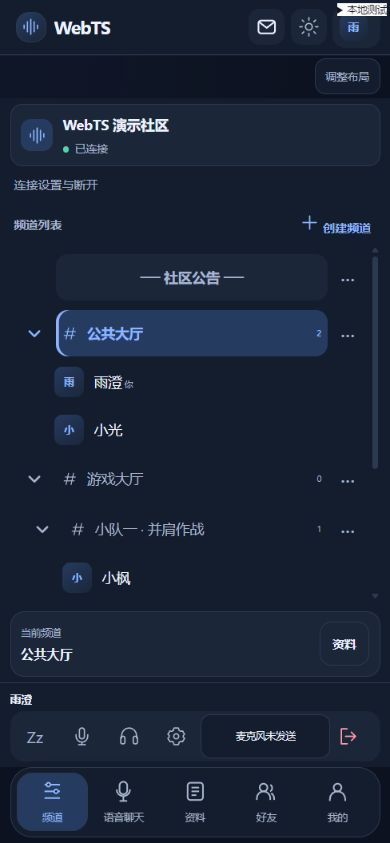
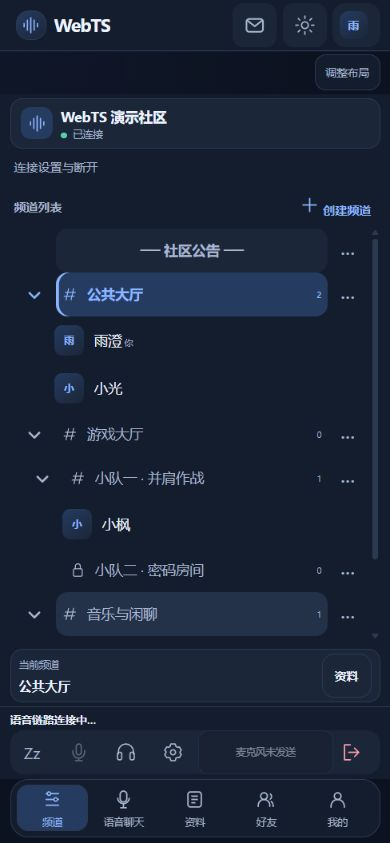
Improve compact mobile layout and device detection

diff --git a/web/src/interface.css b/web/src/interface.css
@@ -256,15 +256,16 @@ dialog::backdrop {background:#061020a3; backdrop-filter:blur(5px);}
 .context-menu button {border-radius:10px; min-height:38px;}
 
 /* Touch-first devices use pages; desktop windows retain their columns. */
-.app[data-layout=mobile] {height:var(--viewport-height,100dvh); padding-bottom:calc(76px + env(safe-area-inset-bottom));}
-.app[data-layout=mobile]:has(.workspace-shell) {padding-bottom:calc(76px + env(safe-area-inset-bottom));}
+.app[data-layout=mobile] {height:var(--viewport-height,100dvh); padding-bottom:calc(64px + env(safe-area-inset-bottom));}
+.app[data-layout=mobile]:has(.workspace-shell) {padding-bottom:calc(64px + env(safe-area-inset-bottom));}
 .app[data-layout=mobile].public-app {height:auto; padding-bottom:0;}
-.app[data-layout=mobile]>.topbar {height:auto; min-height:54px; padding:6px 10px; gap:6px;}
-.app[data-layout=mobile]:has(.workspace-shell)>.topbar {height:auto; min-height:54px; padding:6px 10px;}
+.app[data-layout=mobile]>.topbar {height:auto; min-height:50px; padding:2px 10px; gap:6px;}
+.app[data-layout=mobile]:has(.workspace-shell)>.topbar {height:auto; min-height:50px; padding:2px 10px;}
 .app[data-layout=mobile] .brand strong {font-size:19px; max-width:160px;}
 .app[data-layout=mobile] .brand-note {display:none;}
 .app[data-layout=mobile] .top-actions {gap:6px;}
-.app[data-layout=mobile] .topbar .icon-button {width:36px; height:36px; min-height:36px; border-radius:11px;}
+.app[data-layout=mobile] .topbar .icon-button {width:44px; height:44px; min-height:44px; border-radius:11px;}
+.app[data-layout=mobile] .topbar .account-button {min-height:44px;}
 .app[data-layout=mobile] .mobile-page-title {display:none;}
 .app[data-layout=mobile] .mobile-page-title small {font-size:9px; letter-spacing:1.3px; margin-bottom:4px;}
 .app[data-layout=mobile] .mobile-page-title strong {font-size:19px;}
@@ -277,17 +278,18 @@ dialog::backdrop {background:#061020a3; backdrop-filter:blur(5px);}
 .app[data-layout=mobile] .workspace-viewport>.workspace {display:flex; min-width:0!important; grid-template-columns:none!important; width:100%;}
 .app[data-layout=mobile] .workspace-pane {display:none; border:0;}
 .app[data-layout=mobile] .mobile-channels .pane-channels,.app[data-layout=mobile] .mobile-chat .pane-chat,.app[data-layout=mobile] .mobile-members .pane-members {display:flex; animation:panel-reveal .24s var(--ease);}
-.app[data-layout=mobile] .workspace-pane>.sidebar {padding:6px 10px; border:0;}
-.app[data-layout=mobile] .channels-panel .server-card {padding:8px 10px; border-radius:12px; margin-bottom:2px; gap:10px;}
+.app[data-layout=mobile] .workspace-pane>.sidebar {padding:4px 10px; border:0;}
+.app[data-layout=mobile] .channels-panel .server-card {padding:6px 10px; min-height:48px; border-radius:12px; margin-bottom:2px; gap:8px;}
 .app[data-layout=mobile] .channels-panel .server-mark {width:32px; height:32px; border-radius:10px;}
 .app[data-layout=mobile] .channels-panel .server-card strong {font-size:14px;}
+.app[data-layout=mobile] .channels-panel .server-card p {margin-top:0; font-size:10px; line-height:1.4;}
 .app[data-layout=mobile] .channels-panel .server-card small {display:none;}
 .app[data-layout=mobile] .channels-panel>.section-label {padding:0 4px; margin:2px 0; min-height:36px;}
 .app[data-layout=mobile] .connection-selectors>summary {padding:8px 4px; min-height:36px;}
 .app[data-layout=mobile] .channels-panel>.connect-area {display:none;}
 .app[data-layout=mobile] .channels-panel:has(.connection-selectors[open])>.connect-area {display:flex;}
 .app[data-layout=mobile] .channels-panel>.channel-list {border:0; border-radius:0; padding:2px; background:transparent; margin-bottom:6px; scrollbar-gutter:auto;}
-.app[data-layout=mobile] .channel-line>.channel {font-size:14px; min-height:46px;}
+.app[data-layout=mobile] .channel-line>.channel {font-size:14px; min-height:44px; margin:0;}
 .app[data-layout=mobile] .member-row {font-size:13px; min-height:44px;}
 .app[data-layout=mobile] .channel-fold,.app[data-layout=mobile] .channel-actions {min-width:40px; min-height:44px;}
 .app[data-layout=mobile] .channel-line {gap:0;}
@@ -296,24 +298,27 @@ dialog::backdrop {background:#061020a3; backdrop-filter:blur(5px);}
 .app[data-layout=mobile] dialog label.checkbox {min-height:44px; align-items:center;}
 .app[data-layout=mobile] .friend-settings-sheet .secondary {min-height:44px; width:100%;}
 .app[data-layout=mobile] .chat-notice {top:64px; font-size:11px;}
-.app[data-layout=mobile] .mobile-channel-selection {border-radius:14px; padding:10px; margin-top:4px; background:var(--surface);}
+.app[data-layout=mobile] .mobile-channel-selection {border-radius:12px; padding:4px 8px; margin-top:2px; background:var(--surface);}
 .app[data-layout=mobile] .connect-area {margin-top:8px; padding-top:10px;}
 .app[data-layout=mobile] .connect-area>button {min-height:42px;}
-.app[data-layout=mobile] .chat-heading {padding:14px 16px; min-height:72px;}
+.app[data-layout=mobile] .chat-heading {padding:8px 12px; min-height:56px;}
 .app[data-layout=mobile] .chat-heading h1 {font-size:19px; margin-top:0;}
 .app[data-layout=mobile] .chat-tabs {padding:4px 10px; gap:4px; min-height:44px; height:auto; flex-wrap:wrap;}
 .app[data-layout=mobile] .chat-tabs button {font-size:11px; min-height:34px; padding:7px 9px;}
-.app[data-layout=mobile] .messages {padding:16px; gap:18px; scrollbar-gutter:auto;}
-.app[data-layout=mobile] .composer {margin:6px 10px 10px; min-height:50px; padding-left:12px;}
+.app[data-layout=mobile] .messages {padding:10px 12px; gap:10px; scrollbar-gutter:auto;}
+.app[data-layout=mobile] .composer {margin:4px 10px 6px; min-height:50px; padding:3px 4px 3px 10px; gap:6px;}
+.app[data-layout=mobile] .composer>button {width:44px; height:44px; flex-shrink:0;}
+.app[data-layout=mobile] .composer>.sticker-picker>button {width:44px; height:44px;}
 .app[data-layout=mobile] input,.app[data-layout=mobile] select,.app[data-layout=mobile] textarea {font-size:16px;}
-.app[data-layout=mobile] .voice-bar {display:grid; grid-template-columns:minmax(0,1fr); grid-template-rows:18px 50px; padding:6px 10px; min-height:84px; gap:4px;}
-.app[data-layout=mobile] .voice-status strong {font-size:11px; max-width:none; line-height:18px;}
-.app[data-layout=mobile] .voice-controls {gap:3px; padding:3px; width:100%; margin:0;}
+.app[data-layout=mobile] .voice-bar {display:grid; grid-template-columns:minmax(0,1fr); grid-template-rows:16px 46px; padding:4px 10px; min-height:72px; gap:2px;}
+.app[data-layout=mobile] .voice-status strong {font-size:11px; max-width:none; line-height:16px;}
+.app[data-layout=mobile] .voice-controls {gap:3px; padding:0; width:100%; margin:0;}
 .app[data-layout=mobile] .voice-controls .icon-button {width:44px; height:44px; flex-shrink:0;}
 .app[data-layout=mobile] .voice-controls .ptt {font-size:10px; padding:7px; flex:1; width:0; min-width:0; min-height:44px; max-width:none; margin:0; justify-content:center;}
 .app[data-layout=mobile] .voice-controls .mobile-disconnect {display:inline-flex; color:var(--danger);}
-.app[data-layout=mobile] .mobile-navigation {height:calc(70px + env(safe-area-inset-bottom)); bottom:6px; left:10px; right:10px; padding:5px 6px calc(5px + env(safe-area-inset-bottom)); border:1px solid var(--border); border-radius:22px; background:var(--panel); box-shadow:0 6px 28px #06132718; z-index:20;}
-.app[data-layout=mobile] .mobile-navigation button {min-height:54px; border:0; position:relative; padding:5px 2px; border-radius:16px; gap:4px; color:var(--muted);}
+.app[data-layout=mobile] .mobile-navigation {height:calc(58px + env(safe-area-inset-bottom)); bottom:6px; left:10px; right:10px; padding:5px 6px calc(5px + env(safe-area-inset-bottom)); border:1px solid var(--border); border-radius:18px; background:var(--panel); box-shadow:0 6px 28px #06132718; z-index:20;}
+.app[data-layout=mobile] .mobile-navigation button {min-height:44px; border:0; position:relative; padding:2px; border-radius:12px; gap:2px; color:var(--muted);}
+.app[data-layout=mobile] .mobile-navigation button svg {width:20px; height:20px;}
 .app[data-layout=mobile] .mobile-navigation button.active {background:var(--accent-bg); color:var(--accent);}
 .app[data-layout=mobile] .mobile-navigation button strong {font-size:10px; white-space:nowrap;}
 .app[data-layout=mobile] .mobile-navigation button::before {display:none;}
@@ -326,7 +331,7 @@ dialog::backdrop {background:#061020a3; backdrop-filter:blur(5px);}
 .app[data-layout=mobile] .admin-tabs {padding:4px; gap:3px;}
 .app[data-layout=mobile] .admin-tabs button {font-size:12px; min-height:40px; padding:9px 12px;}
 .app[data-layout=mobile] .friends-mobile-page {margin:0; border:0; border-radius:0; overflow:hidden;}
-.app[data-layout=mobile] .friends-list {padding:12px; gap:10px;}
+.app[data-layout=mobile] .friends-list {padding:8px 10px; gap:6px;}
 .app[data-layout=mobile] .friends-list header small {display:none;}
 .app[data-layout=mobile] .friends-list h2 {font-size:22px;}
 .app[data-layout=mobile] .friend-self {gap:10px;}
@@ -334,22 +339,23 @@ dialog::backdrop {background:#061020a3; backdrop-filter:blur(5px);}
 .app[data-layout=mobile] .friend-tools>summary::after {content:'+'; color:var(--accent); font-size:18px;}
 .app[data-layout=mobile] .friend-tools[open]>summary::after {content:'−';}
 .app[data-layout=mobile] .friend-tools-body {padding:12px 0; gap:12px;}
-.app[data-layout=mobile] .friend-row {padding:10px; min-height:58px;}
-.app[data-layout=mobile] .friend-heading {padding:8px 10px; min-height:60px;}
-.app[data-layout=mobile] .friend-heading small {margin-bottom:3px;}
+.app[data-layout=mobile] .friend-row {padding:6px 10px; min-height:52px;}
+.app[data-layout=mobile] .friend-heading {padding:4px 10px; min-height:52px;}
+.app[data-layout=mobile] .friend-heading small {margin-bottom:1px;}
 .app[data-layout=mobile] .friend-heading h2 {font-size:17px;}
 .app[data-layout=mobile] .friend-location>summary {padding:6px 12px; min-height:32px; font-size:11px;}
 .app[data-layout=mobile] .friend-conversation>[role=alert] {font-size:12px; padding:6px 12px; max-height:64px; overflow:auto; flex-shrink:0;}
 .app[data-layout=mobile] .friend-compose-options {padding:0 10px; gap:6px;}
 .app[data-layout=mobile] .friend-burn-settings>summary {min-height:44px; padding:8px 10px;}
 .app[data-layout=mobile] .friend-burn-sheet {width:calc(100vw - 40px); padding:16px;}
-.app[data-layout=mobile] .friend-composer {margin:6px 10px 10px;}
-.app[data-layout=mobile] .friend-messages {padding:14px; scrollbar-gutter:auto;}
-.app[data-layout=mobile] .friend-message {max-width:92%; padding:12px 14px;}
+.app[data-layout=mobile] .friend-composer {margin:4px 10px 6px;}
+.app[data-layout=mobile] .friend-messages {padding:10px; gap:10px; scrollbar-gutter:auto;}
+.app[data-layout=mobile] .friend-message {max-width:92%; padding:8px 10px;}
 .app[data-layout=mobile] .activity-alert {top:12px; left:12px; right:12px; max-width:calc(100% - 24px);}
-.app[data-layout=mobile] .client-home {padding:20px 16px;}
-.app[data-layout=mobile] .connection-steps section {display:flex; align-items:flex-start; padding:18px;}
-.app[data-layout=mobile] .connection-steps .step-number,.app[data-layout=mobile] .connection-steps h3 {margin-bottom:8px;}
+.app[data-layout=mobile] .client-home {padding:12px; gap:12px;}
+.app[data-layout=mobile] .connection-steps {gap:8px;}
+.app[data-layout=mobile] .connection-steps section {display:flex; align-items:flex-start; padding:12px;}
+.app[data-layout=mobile] .connection-steps .step-number,.app[data-layout=mobile] .connection-steps h3 {margin-bottom:4px;}
 .app[data-layout=mobile] .workspace-guide p {grid-template-columns:20px 76px minmax(0,1fr); font-size:11px;}
 .app[data-layout=desktop] .mobile-navigation,.app[data-layout=desktop] .mobile-page-title {display:none;}
 .app[data-layout=desktop] .topbar {min-width:0;}
@@ -423,10 +429,11 @@ dialog[open],.friends-panel {animation:surface-reveal .3s var(--ease);}
   .layout-toolbar {min-height:38px; padding-top:4px; padding-bottom:4px;}
   .workspace-jump {display:none;}
   .app[data-layout=mobile] .mobile-page-title {display:none;}
-  .app[data-layout=mobile] .chat-heading {min-height:48px; padding:8px 12px;}
+  .app[data-layout=mobile] .chat-heading {min-height:44px; padding:4px 12px;}
   .app[data-layout=mobile] .chat-heading p {display:none;}
+  .app[data-layout=mobile] .messages {padding:4px 12px;}
   .app[data-layout=mobile] .mobile-navigation {height:calc(56px + env(safe-area-inset-bottom));}
-  .app[data-layout=mobile] .mobile-navigation button {min-height:40px;}
+  .app[data-layout=mobile] .mobile-navigation button {min-height:44px;}
   .app[data-layout=mobile] .mobile-navigation button span {display:none;}
   .app[data-layout=mobile] {padding-bottom:calc(62px + env(safe-area-inset-bottom));}
   .app[data-layout=mobile]:has(.workspace-shell) {padding-bottom:calc(62px + env(safe-area-inset-bottom));}

diff --git a/web/src/main.tsx b/web/src/main.tsx
@@ -64,7 +64,7 @@ function App(){
   function navigate(next:string){history.pushState(null,'',next==='home'?'/':`/${next}`);setView(next);}
   useEffect(()=>{const pop=()=>setView(['/app','/login','/privacy','/terms'].includes(location.pathname)?location.pathname.slice(1):'home');window.addEventListener('popstate',pop);api<Home>('/site').then(setHome).catch(()=>{});return()=>window.removeEventListener('popstate',pop);},[]);
 
-  const[user,setUser]=useState<User|null>(null);const[loaded,setLoaded]=useState(false);const[identities,setIdentities]=useState<Identity[]>([]);const[servers,setServers]=useState<{id:string;name:string}[]>([]);const[identity,setIdentity]=useState('');const[server,setServer]=useState('');const[state,setState]=useState<State|null>(null);const[selected,setSelected]=useState<number>();const[status,setStatus]=useState('尚未连接');const[connected,setConnected]=useState(false);const[busy,setBusy]=useState(false);const[reconnecting,setReconnecting]=useState(false);const[notice,setNotice]=useState('');const[modal,setModal]=useState('');const[auth,setAuth]=useState('login');const[chat,setChat]=useState<Chat[]>([]);const[scope,setScope]=useState('channel');const[message,setMessage]=useState('');const[muted,setMuted]=useState(false);const[deafened,setDeafened]=useState(false);const[mode,setMode]=useAccountPreference<'ptt'|'open'>('mode','open');const[transmitting,setTransmitting]=useState(false);const[level,setLevel]=useState(0);const[inputLevel,setInputLevel]=useState(0);const[capture,setCapture]=useState('尚未打开麦克风');const[capturePaused,setCapturePaused]=useState(false);const[audioTransport,setAudioTransport]=useState('new');const[cipher,setCipher]=useState('');const[devices,setDevices]=useState<MediaDeviceInfo[]>([]);const[input,setInput]=useState('');const[output,setOutput]=useState('');const[speaking,setSpeaking]=useState<Record<number,number>>({});const[volumes,setVolumes]=useState<Record<number,number>>({});const[theme,setTheme]=useAccountPreference('theme',()=>localStorage.getItem('webts-theme')??'dark');const[mobile,setMobile]=useState('chat');const[friendUnread,setFriendUnread]=useState(0);const[friendsOpen,setFriendsOpen]=useState(false);const[friendsDisplay,setFriendsDisplay]=useAccountPreference<'floating'|'docked'>('friendsDisplay',()=>{try{return localStorage.getItem('webts-friends-display')==='docked'?'docked':'floating';}catch{return 'floating';}});const[phone]=useState(()=>compactLayout(null,matchMedia(phoneLayoutQuery).matches));const scrollClickGuard=useRef(createScrollClickGuard());const[token,setToken]=useState('');const[authEmail,setAuthEmail]=useState('');const[authError,setAuthError]=useState('');const[authResult,setAuthResult]=useState<{kind:string;success:boolean;message:string}|null>(null);
+  const[user,setUser]=useState<User|null>(null);const[loaded,setLoaded]=useState(false);const[identities,setIdentities]=useState<Identity[]>([]);const[servers,setServers]=useState<{id:string;name:string}[]>([]);const[identity,setIdentity]=useState('');const[server,setServer]=useState('');const[state,setState]=useState<State|null>(null);const[selected,setSelected]=useState<number>();const[status,setStatus]=useState('尚未连接');const[connected,setConnected]=useState(false);const[busy,setBusy]=useState(false);const[reconnecting,setReconnecting]=useState(false);const[notice,setNotice]=useState('');const[modal,setModal]=useState('');const[auth,setAuth]=useState('login');const[chat,setChat]=useState<Chat[]>([]);const[scope,setScope]=useState('channel');const[message,setMessage]=useState('');const[muted,setMuted]=useState(false);const[deafened,setDeafened]=useState(false);const[mode,setMode]=useAccountPreference<'ptt'|'open'>('mode','open');const[transmitting,setTransmitting]=useState(false);const[level,setLevel]=useState(0);const[inputLevel,setInputLevel]=useState(0);const[capture,setCapture]=useState('尚未打开麦克风');const[capturePaused,setCapturePaused]=useState(false);const[audioTransport,setAudioTransport]=useState('new');const[cipher,setCipher]=useState('');const[devices,setDevices]=useState<MediaDeviceInfo[]>([]);const[input,setInput]=useState('');const[output,setOutput]=useState('');const[speaking,setSpeaking]=useState<Record<number,number>>({});const[volumes,setVolumes]=useState<Record<number,number>>({});const[theme,setTheme]=useAccountPreference('theme',()=>localStorage.getItem('webts-theme')??'dark');const[mobile,setMobile]=useState('chat');const[friendUnread,setFriendUnread]=useState(0);const[friendsOpen,setFriendsOpen]=useState(false);const[friendsDisplay,setFriendsDisplay]=useAccountPreference<'floating'|'docked'>('friendsDisplay',()=>{try{return localStorage.getItem('webts-friends-display')==='docked'?'docked':'floating';}catch{return 'floating';}});const[phone]=useState(()=>compactLayout(null,matchMedia(phoneLayoutQuery).matches,navigator));const scrollClickGuard=useRef(createScrollClickGuard());const[token,setToken]=useState('');const[authEmail,setAuthEmail]=useState('');const[authError,setAuthError]=useState('');const[authResult,setAuthResult]=useState<{kind:string;success:boolean;message:string}|null>(null);
   useEffect(()=>{setContext(null);},[view,connected,modal]);
   useEffect(()=>{setFriendsOpen(false);setFriendUnread(0);},[user?.id]);
   useEffect(()=>{if(user)return startPreferences(user.id,message=>setNotice(`账号偏好同步：${message}`));},[user?.id]);

diff --git a/web/src/workspace-layout.ts b/web/src/workspace-layout.ts
@@ -6,8 +6,9 @@ export const defaultLayout:Layout={order:[...panelIds],widths:{channels:30,chat:
 export function readPanelOrder(value:unknown):PanelId[] {
   return Array.isArray(value)&&value.length===3&&new Set(value).size===3&&value.every(id=>panelIds.includes(id))?[...value]:[...panelIds];
 }
-export function compactLayout(_saved:unknown,phone:boolean):boolean {
-  return phone;
+export function compactLayout(_saved:unknown,phone:boolean,device?:Pick<Navigator,'userAgent'|'maxTouchPoints'>&{userAgentData?:{mobile?:boolean}}):boolean {
+  const agent=device?.userAgent??'';
+  return phone||device?.userAgentData?.mobile===true||/Android|iPhone|iPad|iPod|Mobile/i.test(agent)||(device?.maxTouchPoints??0)>1&&/Macintosh/i.test(agent);
 }
 export function minimumWorkspaceWidth(layout:Layout):number {
   return Math.ceil(Math.max(280/layout.widths.channels,360/layout.widths.chat,240/layout.widths.members)*100);

diff --git a/CHANGELOG.md b/CHANGELOG.md
@@ -1,3 +1,10 @@
+## 未发布 · 手机紧凑布局优化
+
+- 收紧手机顶栏、服务器卡片、当前频道摘要、语音栏和底部导航，为频道树及好友聊天正文留出更多空间；聊天输入与语音控制保留触控面积，桌面布局不变。
+- 收紧手机好友列表、会话标题、消息间距及连接引导；保留加密模式说明、聊天设置和阅后即焚入口。
+- 手机识别补充浏览器设备信息，兼容触控查询不准确及连接鼠标的移动设备。电脑缩窗继续保留多栏，不受旧视图开关影响。
+- 前端回归检查与隔离浏览器界面验证通过；未更改语音协议、权限、加密或数据存储。本节为源码更新，现有 1.0.6 安装包尚未包含这些改动。
+
 ## 1.0.6 · 2026-10-12 · 手机交互与跨平台安装
 
 - 手机自动使用紧凑分页，桌面保留多栏布局；恢复常显断开入口，稳定发言状态尺寸，扩大触控目标并阻止滚动后的误点击。手机登录优先展示表单，长弹窗保持可用的关闭入口。
